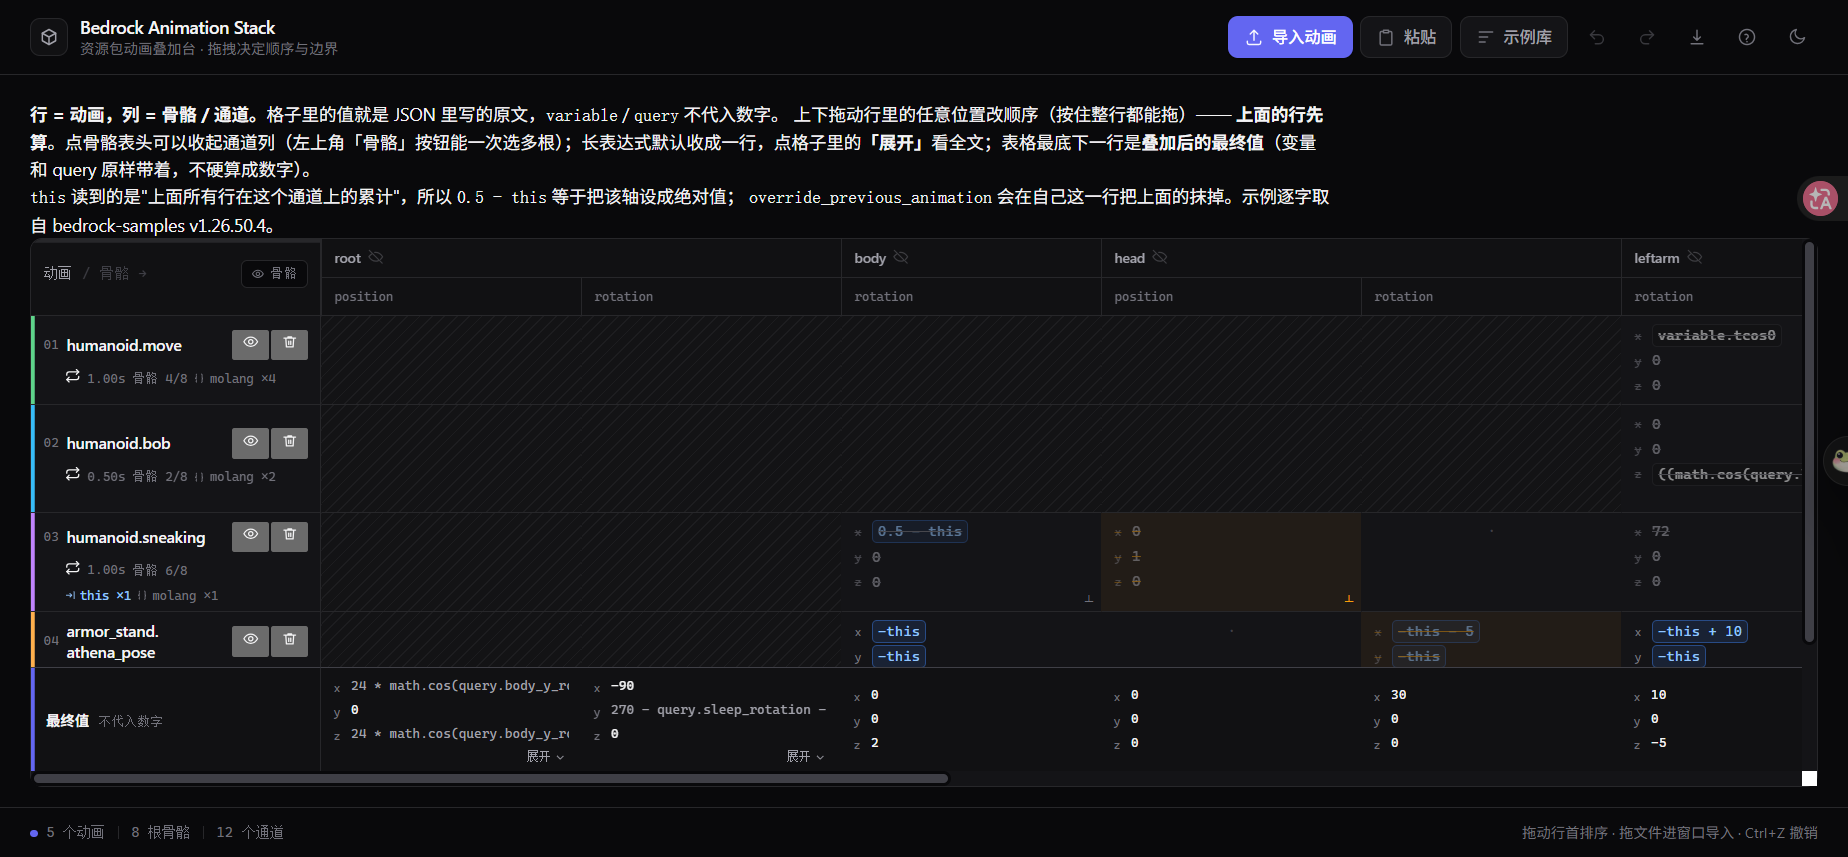
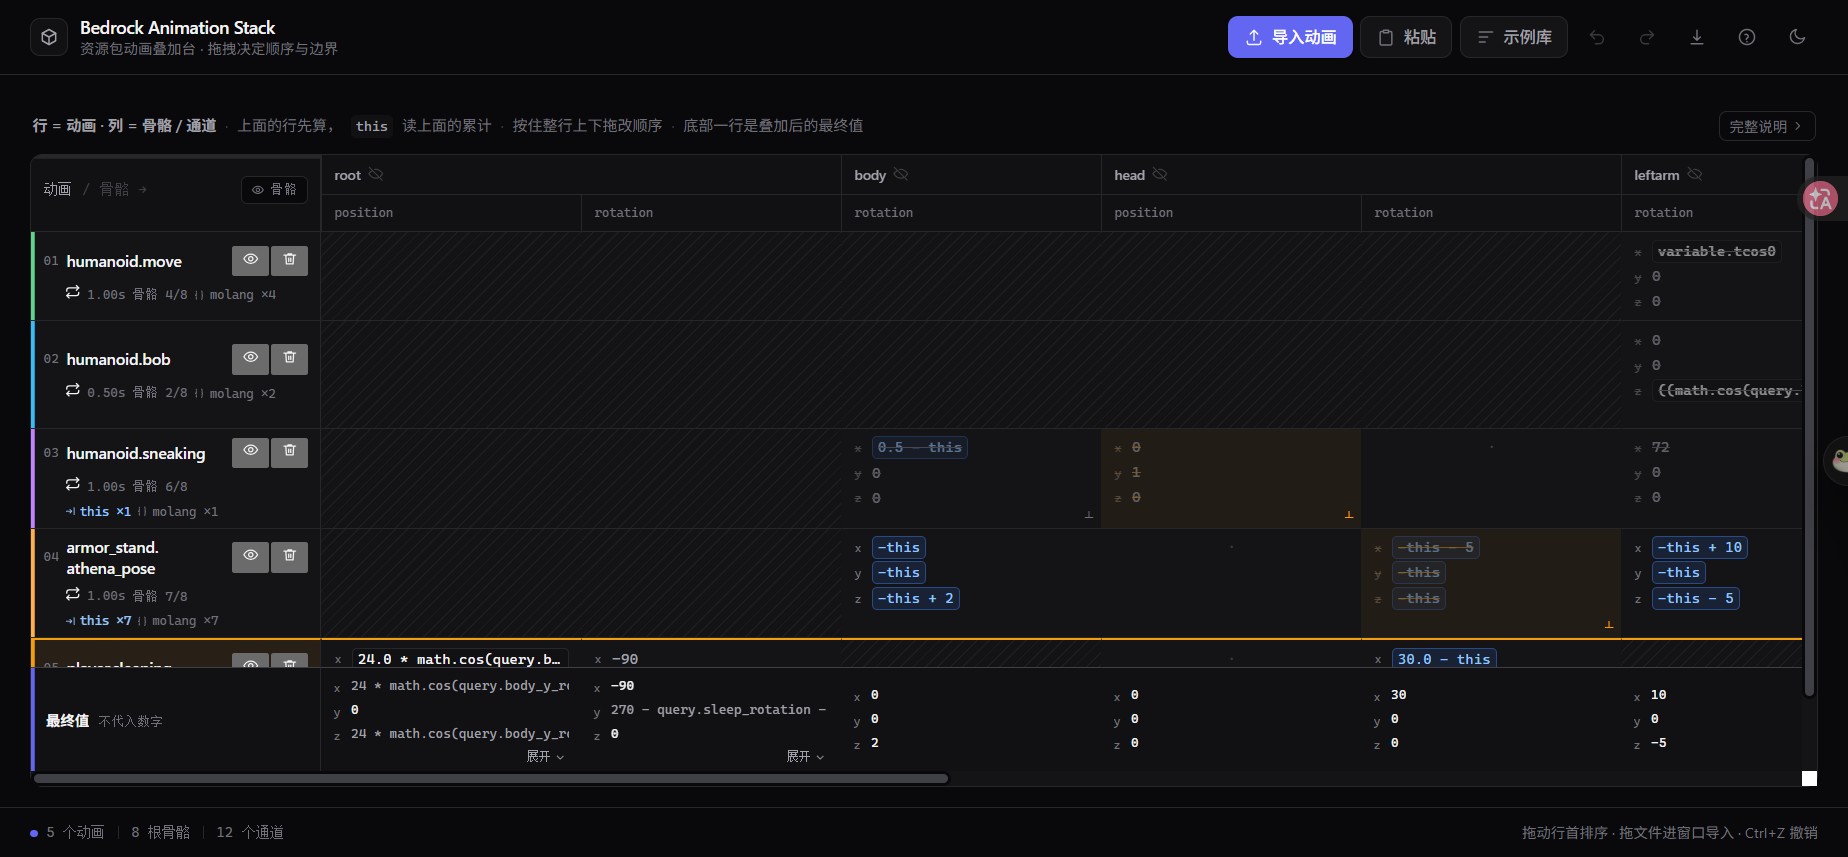
feat: 顶部两段说明压成一行，把高度还给表格
- #hint 改成一行提要 + 右侧「完整说明」按钮（和顶栏 ? 同一个 openDocs）
- 说明本身没丢，都在弹窗的 16 张卡片里
- 说明区从 ~90px 降到 ~34px，表格多出约 56px（多看到近一行）
- HANDOVER/preview 同步

diff --git a/index.html b/index.html
@@ -346,7 +346,51 @@ button, input, select, textarea { font: inherit; color: inherit; }
   overscroll-behavior: contain;
 }
 .shell > #hint, .shell > #colbar { flex: none; }
-.shell > #hint { max-width: 1040px; }        /* 面板加宽了，说明文字仍然按易读行宽收着 */
+.shell > #hint {
+  display: flex;
+  align-items: center;
+  gap: 14px;
+  padding: 9px 2px 10px;
+}
+.intro .hint-line {
+  flex: 1 1 auto;
+  min-width: 0;
+  margin: 0;
+  display: flex;
+  flex-wrap: wrap;
+  align-items: baseline;
+  gap: 7px;
+  font-size: 12px;
+  line-height: 1.5;
+  color: var(--text-3);
+}
+.intro .hint-line b { font-weight: 600; color: var(--text-2); }
+.intro .hint-line code {
+  font-family: var(--mono);
+  font-size: 11px;
+  padding: 1px 4px;
+  border-radius: 4px;
+  background: var(--bg-2);
+  color: var(--text-2);
+}
+.intro .sep { color: var(--border-2); }
+.hint-more {
+  flex: none;
+  display: inline-flex;
+  align-items: center;
+  gap: 3px;
+  height: 24px;
+  padding: 0 8px;
+  border: 1px solid var(--border);
+  border-radius: 6px;
+  background: none;
+  color: var(--text-3);
+  font-size: 11.5px;
+  cursor: pointer;
+  transition: color var(--t-fast) var(--ease), border-color var(--t-fast) var(--ease), background var(--t-fast) var(--ease);
+}
+.hint-more .icon { width: 11px; height: 11px; }
+.hint-more:hover { color: var(--text); border-color: var(--border-2); background: var(--hover); }
 .empty {
   display: flex;
   flex-direction: column;
@@ -1381,14 +1425,19 @@ html[data-theme="light"] .rh-meta .chip.th { color: #1D4ED8; }
 
 <div class="shell">
   <div class="intro" id="hint">
-    <p>
-      <b>行 = 动画，列 = 骨骼 / 通道。</b>格子里的值就是 JSON 里写的原文，<code>variable</code> / <code>query</code> 不代入数字。
-      上下拖动行里的任意位置改顺序（按住整行都能拖）—— <b>上面的行先算</b>。点骨骼表头可以收起通道列（左上角「骨骼」按钮能一次选多根）；长表达式默认收成一行，点格子里的<b>「展开」</b>看全文；表格最底下一行是<b>叠加后的最终值</b>（变量和 query 原样带着，不硬算成数字）。
+    <p class="hint-line">
+      <b>行 = 动画 · 列 = 骨骼 / 通道</b>
+      <span class="sep" aria-hidden="true">·</span>
+      上面的行先算，<code>this</code> 读上面的累计
+      <span class="sep" aria-hidden="true">·</span>
+      按住整行上下拖改顺序
+      <span class="sep" aria-hidden="true">·</span>
+      底部一行是叠加后的最终值
     </p>
-    <p class="sub">
-      <code>this</code> 读到的是"上面所有行在这个通道上的累计"，所以 <code>0.5 - this</code> 等于把该轴设成绝对值；
-      <code>override_previous_animation</code> 会在自己这一行把上面的抹掉。示例逐字取自 bedrock-samples v1.26.50.4。
-    </p>
+    <button class="hint-more" id="hintMore" type="button">
+      完整说明
+      <svg class="icon" viewBox="0 0 24 24"><path d="M9 6l6 6-6 6"></path></svg>
+    </button>
   </div>
 
   <div class="colbar" id="colbar" hidden></div>
@@ -3400,7 +3449,7 @@ function initExport() {
 
 /* ---------- 说明 ---------- */
 function initDocs() {
-  $('#btnDocs').addEventListener('click', () => {
+  const openDocs = () => {
     const docs = [
       ['order', '这张表怎么读', '<strong>一行 = 一段动画，一列 = 骨骼下面的一个通道</strong>（<code>head · rotation</code> 就是一列）。上面第一行先算，越往下越靠后叠。单元格里的值就是 JSON 里写的那几个字面量，<strong>没有代入时间、也没有算出数字</strong> —— 表达式原样摆着，因为你要看的是「作者写了什么」。'],
       ['layers', '顺序就是语义', '整行按住都能拖，把整段动画上下挪。<code>this</code> 读到的是它<strong>上面</strong>所有行的累计，<code>override</code> 只抹掉它上面那些行 —— 所以换顺序 = 换结果，这也是这套动画系统里最容易踩的坑。'],
@@ -3421,7 +3470,10 @@ function initDocs() {
     ];
     openModal('语义说明与图例', '<div class="docs">' + docs.map(d =>
       '<div class="doc-card"><h4>' + ic(d[0]) + d[1] + '</h4><p>' + d[2] + '</p></div>').join('') + '</div>');
-  });
+  };
+  $('#btnDocs').addEventListener('click', openDocs);
+  const more = $('#hintMore');
+  if (more) more.addEventListener('click', openDocs);
 }
 
 /* ---------- boot ---------- */

diff --git a/HANDOVER.md b/HANDOVER.md
@@ -1,7 +1,7 @@
 # Bedrock Animation Stack · 接手指南
 
 > 这份文档写给接手的人（或模型）。目标：读完就能改，不用重新猜需求。
-> 最后更新：**2026-11-26 23:58（接手第十七次改动）** · `index.html` **3454 行 / 140,602 B**，`node --check` 通过。
+> 最后更新：**2026-11-27 00:18（接手第十八次改动）** · `index.html` **3506 行 / 141,395 B**，`node --check` 通过。
 > 仓库已 `git init`（分支 `main`），接手前的基线是 commit `0eeaf25`，用 `git diff 0eeaf25` 就能看到我改了什么。
 
 ---
@@ -78,8 +78,8 @@ node D:\scripts\bedrock-anim-lab\server.js        # -> http://127.0.0.1:8765/ind
 
 ```
 D:\scripts\bedrock-anim-lab\        ← 已是 git 仓库（main）
-├─ index.html        140602 B  ← 全部交付物（HTML+CSS+JS 内联）
-├─ preview.png       178892 B  默认 5 行矩阵截图（深色，1848×857，2026-11-26 重拍：表格铺满到状态栏、覆盖率 + 斜纹 + -this 划掉）
+├─ index.html        141395 B  ← 全部交付物（HTML+CSS+JS 内联）
+├─ preview.png       141958 B  默认 5 行矩阵截图（深色，1848×857，2026-11-26 重拍：表格铺满到状态栏、覆盖率 + 斜纹 + -this 划掉）
 ├─ samples.png       144938 B  示例库弹窗截图（深色，含「替换整栈」按钮）
 ├─ server.js            803 B  极简静态服务（8765，no-store）
 ├─ _v1-viewer.html   124345 B  v1（3D 版）备份，不要拿去改
@@ -234,7 +234,7 @@ header.nav
 body（flex column，`overflow: hidden` —— 整页不滚，只有 .mwrap 滚）
   header.nav
   main.shell（flex: 1 1 auto; min-height: 0; 自身也是 flex column）
-    #hint     两行说明（列/行是什么、this 与 override 怎么读、点骨骼表头可收起列）· flex: none
+    #hint     一行提要（行=动画·列=骨骼/通道 · 上面的行先算 · 整行可拖 · 底部是最终值）+ 右侧「完整说明」按钮 · flex: none
     #colbar   已隐藏骨骼提示栏（默认 hidden：`已隐藏 N 根骨骼` + 骨骼 chip + 全部显示）· flex: none
     .mwrap > #matrix   矩阵表（.mtx）· flex: 1 1 auto; min-height: 0; overscroll-behavior: contain
       └ tbody 最后一行 tr.sumrow = 最终值（sticky bottom；th 里是「最终值 · 不代入时间」，没有时间控件）
@@ -483,6 +483,18 @@ const LS_KEY = 'bedrock-anim-lab.v4';
 ---
 
 ## 14. 变更记录（接手后）
+
+### 2026-11-27 00:15 · 顶部说明压成一行，把高度还给表格
+
+- 用户反馈：顶部那两段说明占了太多竖向空间，表格被挤扁。
+- 把两段文字（约 5 行、~90px）压成**一行提要** + 右侧「完整说明」按钮：
+  `行 = 动画 · 列 = 骨骼 / 通道 · 上面的行先算（this 读上面的累计）· 按住整行上下拖改顺序 · 底部一行是叠加后的最终值`
+- 删掉的内容不是丢了，本来就在顶栏 `?` 打开的说明弹窗里（「这张表怎么读」「顺序就是语义」「this」「override」等卡片）。`#hintMore` 和 `#btnDocs` 绑的是同一个 `openDocs()`。
+- 净效果：这一块从 ~90px 降到 ~34px，表格多出约 56px ≈ 多半行高度（现在 5 行能看到 4 行半，之前是 3 行半）。
+- 布局：`#hint` 改成 `display:flex; align-items:center`，左边 `.hint-line` 可换行、右边按钮 `flex:none`；窄屏时按钮仍在右侧，文字自己折行。
+- 坑：替换 `initDocs` 里的闭包时，`});` → `};` 的替换误命中了 `initModal` 的同名结尾，导致 `});` 丢失、语法报错；已按上下文精确修复。**以后改这种"箭头函数注册 → 具名函数"的写法，先看清楚有几处一样的收尾。**
+- `preview.png` 重拍。
+
 
 ### 2026-11-26 23:55 · 两种「作废」分开画：override 带底，`- this` 不带
 
